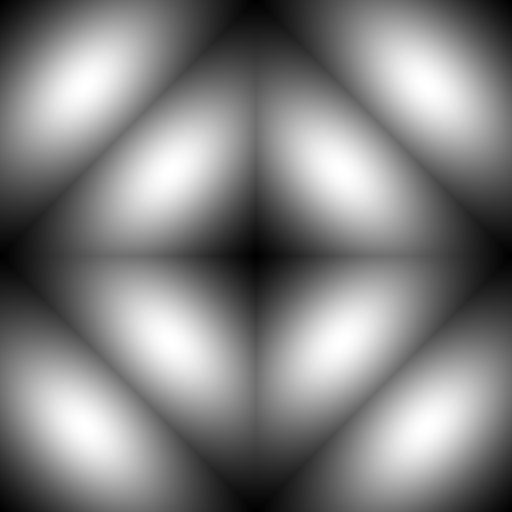
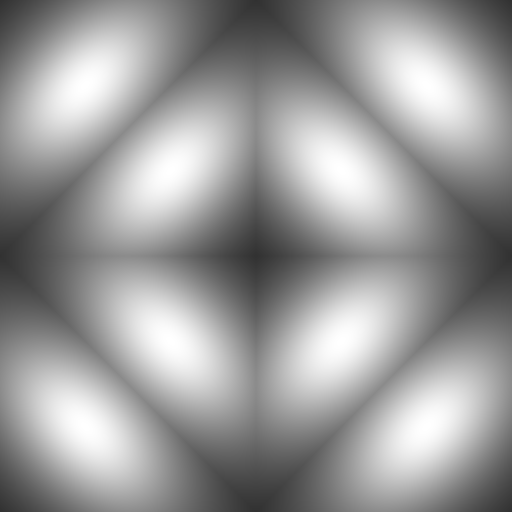
Environment Lighting

diff --git a/Rendering/Rasterization/Lighting/Environment-Lighting.md b/Rendering/Rasterization/Lighting/Environment-Lighting.md
@@ -97,7 +97,8 @@ min_d_omega = min(min(d_omega));
 % output: "min solid angle: 0.772814"
 printf("min solid angle: %f \n", min_d_omega);
 
-solid_angle_weight_image = uint8(255 * (d_omega - min_d_omega) / (max_d_omega - min_d_omega));
+% solid_angle_weight_image = uint8(255 * (d_omega - min_d_omega) / (max_d_omega - min_d_omega));
+solid_angle_weight_image = uint8(255 * (d_omega / max_d_omega));
 imwrite(solid_angle_weight_image, 'Environment-Lighting-Cube-Map-Texel-Solid-Angle-Weight.png');
 
 sum_d_omega = sum(sum(d_omega)) / cube_face_width / cube_face_height;
@@ -157,7 +158,8 @@ printf("min solid angle: %f \n", min_d_omega);
 
 % surf(ndc_x, ndc_y, d_omega, 'EdgeColor', 'none');
 
-solid_angle_weight_image = uint8(255 * (d_omega - min_d_omega) / (max_d_omega - min_d_omega));
+% solid_angle_weight_image = uint8(255 * (d_omega - min_d_omega) / (max_d_omega - min_d_omega));
+solid_angle_weight_image = uint8(255 * (d_omega / max_d_omega));
 imwrite(solid_angle_weight_image, 'Environment-Lighting-Octahedron-Map-Texel-Solid-Weight.png');
 
 sum_d_omega = sum(sum(d_omega)) / texture_width / texture_height;
